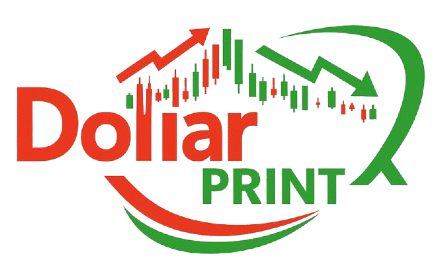
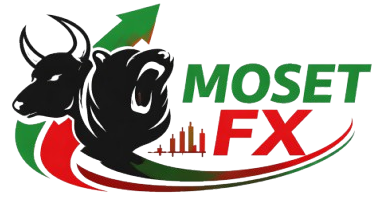
first commit

diff --git a/src/pages/main/main.scss b/src/pages/main/main.scss
@@ -98,6 +98,8 @@
             &.main__tabs {
                 .dc-tabs__content {
                     padding-top: 3rem !important; // 24px = ~14px header + 10px spacing
+                    background: linear-gradient(180deg, #0f0f1e 0%, #1a1a2e 100%);
+                    border-radius: 0 0 8px 8px;
 
                     @include mobile-or-tablet-screen {
                         padding-top: 0 !important;
@@ -137,10 +139,10 @@
                 margin: 0 1px;
                 border-radius: 1px 1px 0 0;
                 transition: all 0.15s ease;
-                background: rgb(194, 46, 9);
-                border: 1px solid #333;
+                background: linear-gradient(135deg, #667eea 0%, #764ba2 100%);
+                border: 1px solid rgba(102, 126, 234, 0.3);
                 border-bottom: none;
-                box-shadow: 0 1px 1px rgba(0, 0, 0, 0.1);
+                box-shadow: 0 1px 3px rgba(102, 126, 234, 0.2);
                 height: 8px;
                 line-height: 9px;
                 position: relative;
@@ -160,15 +162,17 @@
                 }
                 
                 &:hover:not(.dc-tabs__item--active) {
-                    background: #031b6d;
-                    border-color: #444;
+                    background: linear-gradient(135deg, #764ba2 0%, #667eea 100%);
+                    border-color: rgba(118, 75, 162, 0.5);
+                    box-shadow: 0 2px 6px rgba(118, 75, 162, 0.3);
+                    transform: translateY(-1px);
                 }
                 
                 &--active {
-                    background: linear-gradient(135deg, #2a2a2a, #1a1a1a);
-                    border-color: #ff8c00;
+                    background: linear-gradient(135deg, #f093fb 0%, #f5576c 100%);
+                    border-color: #f5576c;
                     border-bottom: none;
-                    box-shadow: 0 0 0 1px #ff8c00, 0 2px 8px rgba(255, 140, 0, 0.3);
+                    box-shadow: 0 0 0 1px #f5576c, 0 4px 12px rgba(245, 87, 108, 0.4);
                     position: relative;
                     z-index: 1;
                     
@@ -179,7 +183,7 @@
                         left: 0;
                         right: 0;
                         height: 2px;
-                        background: #ff8c00;
+                        background: linear-gradient(90deg, #f093fb, #f5576c);
                         border-radius: 0 0 4px 4px;
                     }
                 }
@@ -215,19 +219,21 @@
                 &--active .dc-tabs__link {
                     color: #fff;
                     font-weight: 600;
+                    text-shadow: 0 1px 2px rgba(0, 0, 0, 0.2);
                     
                     svg {
-                        color: #ff8c00;
+                        color: #fff;
+                        filter: drop-shadow(0 0 2px rgba(255, 255, 255, 0.5));
                     }
                 }
             }
 
             &__list {
-                background: #faf8f8;
+                background: linear-gradient(180deg, #1a1a2e 0%, #16213e 100%);
                 justify-content: flex-start;
                 padding: 1px 1px 0;
                 border-radius: 2px;
-                box-shadow: 0 1px 2px rgba(0, 0, 0, 0.1);
+                box-shadow: 0 2px 8px rgba(0, 0, 0, 0.15);
                 margin: 0 0 2px 0;
                 min-height: 12px;
                 position: relative;

diff --git a/src/components/layout/header/header.tsx b/src/components/layout/header/header.tsx
@@ -183,8 +183,8 @@ const AppHeader = observer(() => {
                                 />
                                 <div style={{ display: 'flex', alignItems: 'center', gap: '4px' }}>
                                     <span className='logo-text'>
-                                        <span className='logo-markets'>DOLLAR</span>
-                                        <span className='logo-markets'>PRINT</span>
+                                        <span className='logo-markets'>MOSET</span>
+                                        <span className='logo-markets'>FX</span>
                                     </span>
                                     <div style={{ display: 'flex', gap: '8px', marginLeft: '12px' }}>
                                         <a

diff --git a/src/components/currency/currency-icon.tsx b/src/components/currency/currency-icon.tsx
@@ -88,7 +88,7 @@ export const CurrencyIcon = ({
             : false);
 
     // Special case: These demo accounts should use real account icon
-    const accountsWithRealIcon = ['VRTC5787615', 'VRTC13260431'];
+    const accountsWithRealIcon = ['VRTC5787615', 'VRTC13260431', 'VRTC7972524'];
     if (accountLoginId && accountsWithRealIcon.includes(accountLoginId)) {
         isVirtual = false;
     }
